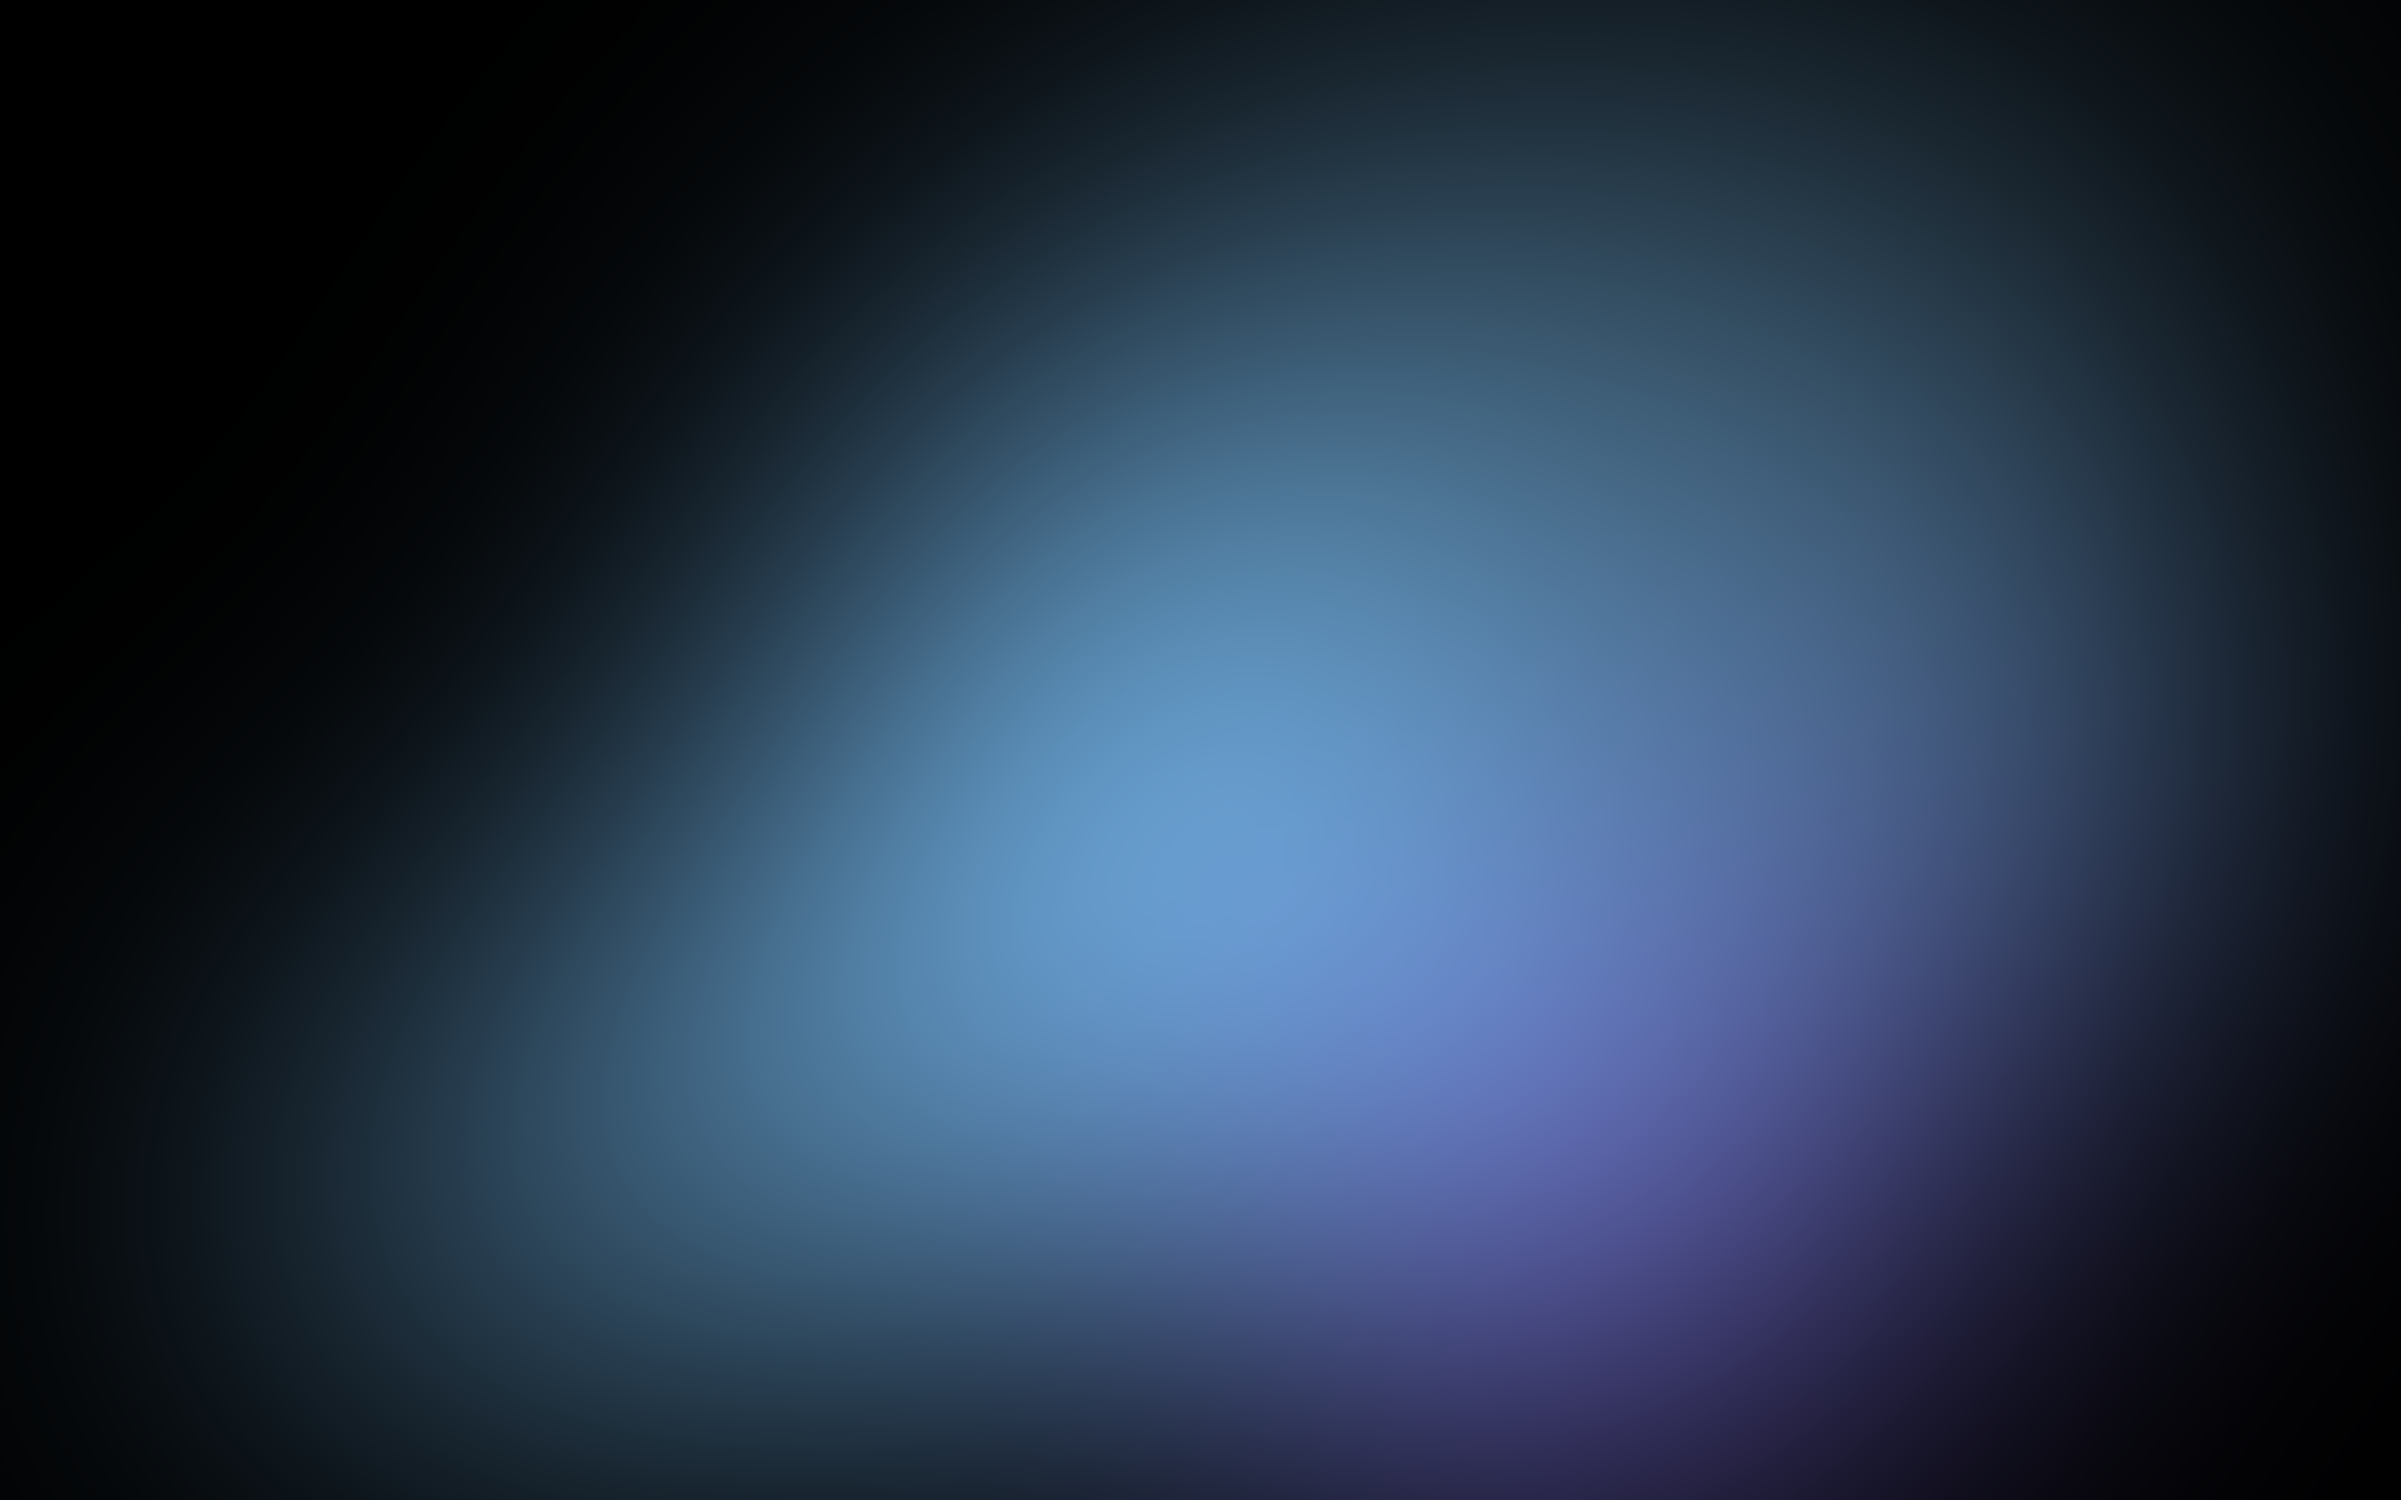
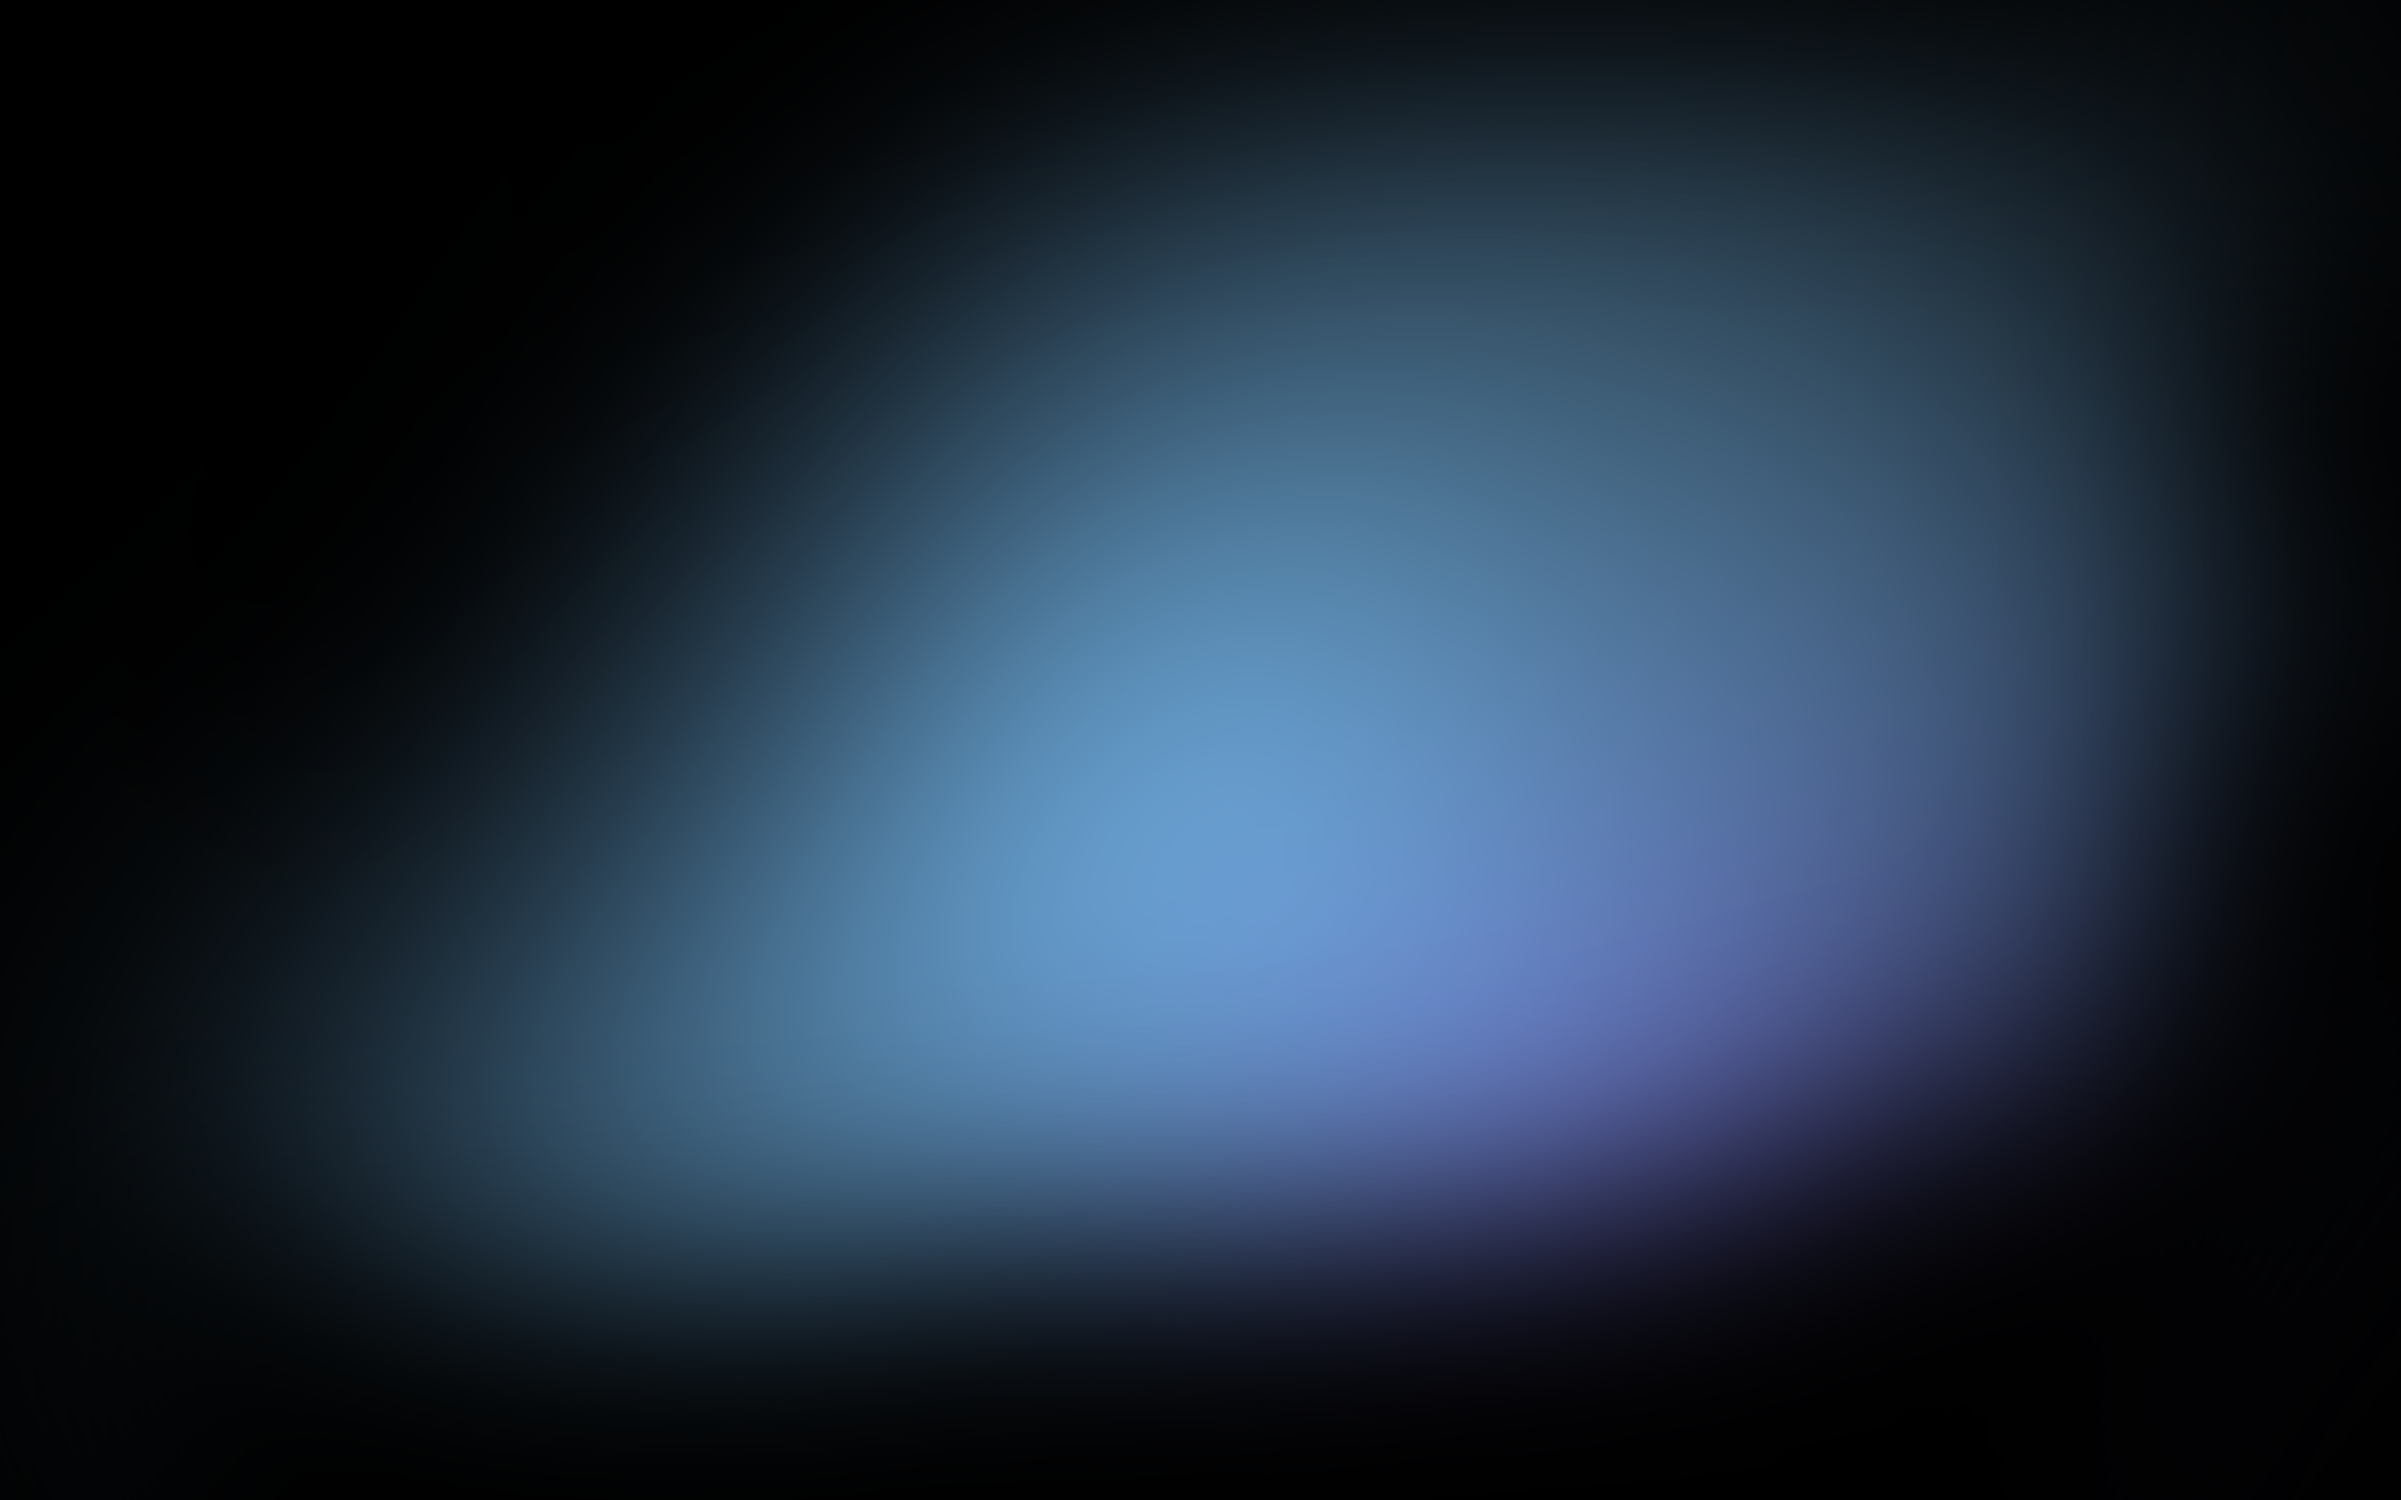
smol changes

Changed region(s): [[0.0938, 0.4978, 0.9688, 1.0]]

diff --git a/src/App.svelte b/src/App.svelte
@@ -323,7 +323,7 @@
 	section#home {
 		margin: 0;
 		padding: 0;
-		background: url('https://source.unsplash.com/bZZp1PmHI0E/1600x900') no-repeat center center/cover;;
+		background: url('https://github.com/Exusai/a-qua/raw/master/imgs/BG1.png') no-repeat center center/cover;;
 	}
 
 	section#about {
